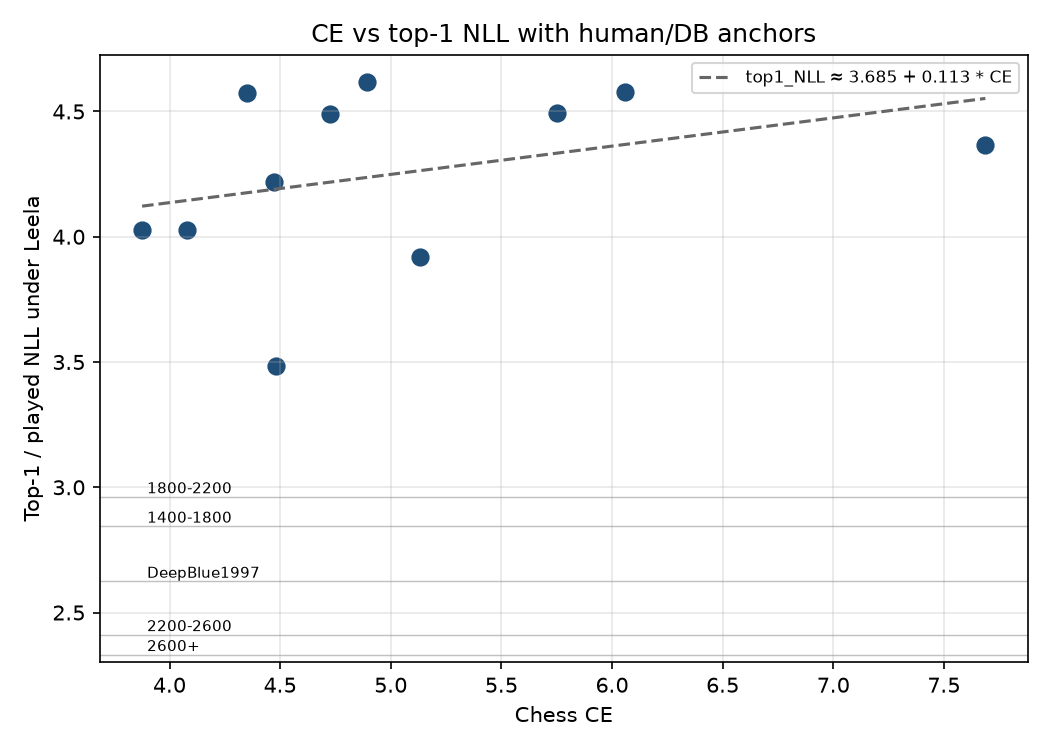
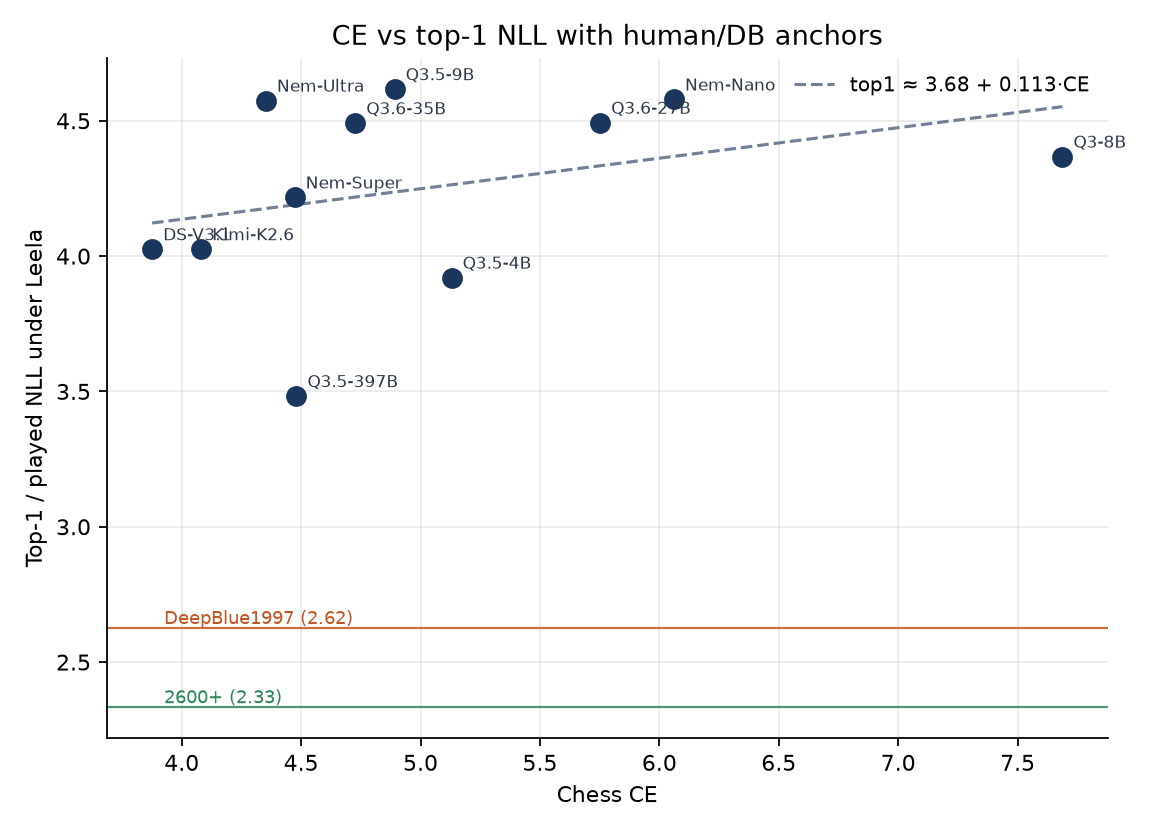
Polish chess write-up: MathJax, table CSS, drop gpt-oss from main curve.

diff --git a/_layouts/default.html b/_layouts/default.html
@@ -8,22 +8,21 @@
   <style>
     body {
       font-family: Georgia, "Times New Roman", Times, serif;
-      line-height: 1.6;
-      max-width: 650px;
+      line-height: 1.65;
+      max-width: 720px;
       margin: 40px auto;
-      padding: 0 10px;
+      padding: 0 16px;
       color: #111;
       background-color: #fff;
     }
     h1, h2, h3 {
-      line-height: 1.2;
+      line-height: 1.25;
+      font-weight: 600;
     }
-    a {
-      color: #0000ee;
-    }
-    a:visited {
-      color: #551a8b;
-    }
+    h2 { margin-top: 2em; }
+    h3 { margin-top: 1.5em; }
+    a { color: #0000ee; }
+    a:visited { color: #551a8b; }
     hr {
       border: 0;
       border-top: 1px solid #ccc;
@@ -34,14 +33,71 @@
       font-style: italic;
       font-size: 0.9em;
     }
+    table {
+      width: 100%;
+      border-collapse: collapse;
+      margin: 1.25em 0;
+      font-size: 0.92em;
+      line-height: 1.4;
+    }
+    thead th {
+      text-align: left;
+      border-bottom: 2px solid #222;
+      padding: 0.45em 0.55em;
+      font-weight: 600;
+      white-space: nowrap;
+    }
+    tbody td {
+      border-bottom: 1px solid #ddd;
+      padding: 0.4em 0.55em;
+      vertical-align: top;
+    }
+    tbody tr:last-child td { border-bottom: 1px solid #bbb; }
+    td:nth-child(n+2), th:nth-child(n+2) {
+      text-align: right;
+      font-variant-numeric: tabular-nums;
+      font-family: "Iosevka", "SF Mono", Menlo, Consolas, monospace;
+      font-size: 0.95em;
+    }
+    /* first col stays prose */
+    td:first-child, th:first-child {
+      text-align: left;
+      font-family: Georgia, "Times New Roman", Times, serif;
+      font-variant-numeric: normal;
+    }
+    img {
+      max-width: 100%;
+      height: auto;
+      display: block;
+      margin: 1.25em auto;
+    }
+    code {
+      font-size: 0.9em;
+      background: #f4f4f4;
+      padding: 0.1em 0.3em;
+      border-radius: 3px;
+    }
+    ul, ol { padding-left: 1.4em; }
+    li { margin: 0.25em 0; }
+    .math-block { overflow-x: auto; }
   </style>
+  <script>
+    window.MathJax = {
+      tex: {
+        inlineMath: [['\\(', '\\)']],
+        displayMath: [['\\[', '\\]']],
+        processEscapes: true
+      }
+    };
+  </script>
+  <script defer src="https://cdn.jsdelivr.net/npm/mathjax@3/es5/tex-chtml.js"></script>
 </head>
 <body>
   <header>
     <h1 style="margin-bottom: 5px;"><a href="{{ '/' | relative_url }}" style="text-decoration: none; color: #111;">{{ site.title }}</a></h1>
     <div style="font-style: italic; margin-bottom: 10px;">{{ site.description }}</div>
     <nav>
-      <a href="https://github.com/{{ site.github_username }}">GitHub</a> / 
+      <a href="https://github.com/{{ site.github_username }}">GitHub</a> /
       <a href="https://www.linkedin.com/in/{{ site.linkedin_username }}">LinkedIn</a>
     </nav>
   </header>

diff --git a/_posts/2025-11-09-correlation-between-pretraining-and-chess-loss.md b/_posts/2025-11-09-correlation-between-pretraining-and-chess-loss.md
@@ -6,17 +6,13 @@ excerpt: "Stress-testing Epoch's Direct Approach: does lower text loss track che
 ---
 Report from the [Apart AI Forecasting Hackathon](https://apartresearch.com/sprints/the-ai-forecasting-hackathon-2025-10-31-to-2025-11-02), updated with a July 2026 Tinker + Leela suite. Code: [emilschmitz/chess-check](https://github.com/emilschmitz/chess-check). Run id `20260710T231834Z`.
 
-# AI Forecasting Hackathon
-
 **Emil Schmitz** · Independent · with Apart Research
-
----
 
 ## Abstract
 
-Epoch AI's Direct Approach treats lower average training loss as a proxy for broader intellectual capability. We stress-test that claim on chess: measure **assistant-only bits-per-byte (BPB)** on post-cutoff prose, then **cross-entropy to Leela Chess Zero** on a fixed grandmaster game, and bridge chess scores to **human Elo bands** via played-move NLL under the same Leela policy.
+Epoch AI's Direct Approach treats lower average training loss as a proxy for broader intellectual capability. We stress-test that claim on chess: measure assistant-only bits-per-byte (BPB) on post-cutoff prose, then cross-entropy to Leela Chess Zero on a fixed grandmaster game, and bridge chess scores to human Elo bands via played-move NLL under the same Leela policy.
 
-On 13 instruct models (Tinker), text BPB and chess CE correlate strongly once two gpt-oss chat/reasoning outliers are excluded (Pearson r ≈ 0.84 on the core 11). Absolute chess CE remains high (~3.9–7.7 nats). Model top-1 Leela NLL sits above Deep Blue's played-move NLL on the same game (~2.62) and above strong Lichess bands (~2.33 for 2600+).
+On 11 instruct models (Tinker; excluding gpt-oss), text BPB and chess CE track each other closely (Pearson \(r \approx 0.84\)). Absolute chess CE remains high (~3.9–7.7 nats). Model top-1 Leela NLL sits above Deep Blue's played-move NLL on the same game (~2.62) and above strong Lichess bands (~2.33 for 2600+).
 
 **Keywords**: Direct Method, Chess, LLM, Leela Chess Zero
 
@@ -26,7 +22,7 @@ On 13 instruct models (Tinker), text BPB and chess CE correlate strongly once tw
 
 Does lower general text loss imply better performance on a narrow, underrepresented domain? Epoch's Direct Approach argues that sufficiently low training loss implies the model can reproduce human-written work across intellectual tasks. That assumes balanced coverage. Chess notation is sparse relative to web prose: a model can look strong on average text while remaining weak at predicting expert moves.
 
-We measure both sides under one protocol: (1) text loss as assistant-only BPB on recent documents, (2) chess loss as H(π_Leela ‖ π_LLM) on Deep Blue–Kasparov 1997 Game 6 (White), (3) a human/engine ladder of −log π_Leela(m_played) by Elo band.
+We measure both sides under one protocol: (1) text loss as assistant-only BPB on recent documents, (2) chess loss as \(H(\pi_{\mathrm{Leela}} \| \pi_{\mathrm{LLM}})\) on Deep Blue–Kasparov 1997 Game 6 (White), (3) a human/engine ladder of \(-\log \pi_{\mathrm{Leela}}(m_{\mathrm{played}})\) by Elo band.
 
 ---
 
@@ -36,7 +32,9 @@ We measure both sides under one protocol: (1) text loss as assistant-only BPB on
 
 Instruct / chat checkpoints only (no base models), scored via [Tinker](https://thinkingmachines.ai/):
 
-Qwen3.5-4B, Qwen3-8B, Qwen3.5-9B, GPT-OSS-20B, Qwen3.6-27B, Nemotron-3-Nano, Qwen3.6-35B-A3B, GPT-OSS-120B, Nemotron-3-Super, Qwen3.5-397B, Nemotron-3-Ultra, DeepSeek-V3.1, Kimi-K2.6.
+Qwen3.5-4B, Qwen3-8B, Qwen3.5-9B, Qwen3.6-27B, Nemotron-3-Nano, Qwen3.6-35B-A3B, Nemotron-3-Super, Qwen3.5-397B, Nemotron-3-Ultra, DeepSeek-V3.1, Kimi-K2.6.
+
+We also ran GPT-OSS-20B and GPT-OSS-120B. Under this chat / Harmony protocol their assistant-only text BPB is pathological (~1.28 and ~2.57), so we treat them as outliers—likely a training or template mismatch rather than a real capability signal—and do not include them in the main table, fits, or plots below.
 
 ### Text loss (BPB)
 
@@ -49,16 +47,16 @@ Qwen3.5-4B, Qwen3-8B, Qwen3.5-9B, GPT-OSS-20B, Qwen3.6-27B, Nemotron-3-Nano, Qwe
 - **Reference:** Leela Chess Zero BT3, `nodes=1` (policy head), CUDA on an A100.
 - **Game:** Deep Blue vs Kasparov, 1997 Game 6 — **White only**, 19 positions (`eval_data/pgn/deep_blue_kasparov_1997_g6.pgn`).
 - **LLM move probs:** full-string SAN with leading space (e.g. `" Nf3"`); product of token conditionals; renormalize over legal moves.
-- **Primary metric:** H(π_Leela ‖ π_LLM).
-- **Bridge metric:** top-1 Leela NLL −log π_Leela(arg max π_LLM).
+- **Primary metric:** \(H(\pi_{\mathrm{Leela}} \| \pi_{\mathrm{LLM}})\).
+- **Bridge metric:** top-1 Leela NLL \(-\log \pi_{\mathrm{Leela}}(\arg\max_m \pi_{\mathrm{LLM}})\).
 
 ### Human / engine calibration
 
-Same Leela policy. For humans (and Deep Blue), score the **played** move: −log π_Leela(m_played), aggregated by Elo band from PGN headers (Lichess sample) plus Deep Blue as an engine anchor on G6.
+Same Leela policy. For humans (and Deep Blue), score the **played** move: \(-\log \pi_{\mathrm{Leela}}(m_{\mathrm{played}})\), aggregated by Elo band from PGN headers (Lichess sample) plus Deep Blue as an engine anchor on G6.
 
 ### Cost
 
-Tinker estimate for this suite: about $0.11 text + $0.65 chess ≈ **$0.76** (cap $50).
+Tinker estimate for this suite (including the excluded gpt-oss runs): about \$0.11 text + \$0.65 chess ≈ **\$0.76** (cap \$50).
 
 ---
 
@@ -66,41 +64,45 @@ Tinker estimate for this suite: about $0.11 text + $0.65 chess ≈ **$0.76** (ca
 
 ### Text BPB vs chess CE
 
-| Model | Params (B) | Text BPB | Chess CE | Top-1 Leela NLL |
-| ----- | ---------- | -------- | -------- | --------------- |
+| Model | Params (B) | Text BPB | Chess CE | Top-1 NLL |
+| ----- | ----------:| --------:| --------:| ---------:|
 | qwen3.5-4b | 4 | 0.701 | 5.130 | 3.921 |
 | qwen3-8b | 8 | 0.768 | 7.687 | 4.368 |
 | qwen3.5-9b | 9 | 0.663 | 4.891 | 4.617 |
-| gpt-oss-20b | 20 | 1.280 | 4.826 | 3.794 |
 | qwen3.6-27b | 27 | 0.616 | 5.752 | 4.493 |
 | nemotron-3-nano | 30 | 0.690 | 6.061 | 4.579 |
 | qwen3.6-35b-a3b | 35 | 0.637 | 4.727 | 4.491 |
-| gpt-oss-120b | 120 | 2.571 | 5.204 | 3.813 |
 | nemotron-3-super | 120 | 0.630 | 4.473 | 4.217 |
 | qwen3.5-397b | 397 | 0.602 | 4.480 | 3.483 |
 | nemotron-3-ultra | 550 | 0.602 | 4.352 | 4.575 |
 | deepseek-v3.1 | 671 (37 act.) | 0.623 | 3.876 | 4.026 |
 | kimi-k2.6 | 1000 (32 act.) | 0.584 | 4.081 | 4.026 |
 
-gpt-oss-20b / 120b show pathological text BPB (~1.28 / ~2.57) under this chat protocol — treated as outliers for correlation fits.
-
 ![Text BPB vs chess CE](/assets/chess-check-20260710/text_bpb_vs_chess_ce.png)
 
-**Core 11 (excl. gpt-oss):** Pearson r(BPB, CE) ≈ 0.84; Spearman ≈ 0.74. Linear fit: CE ≈ −5.94 + 16.99 · BPB. All 13: r ≈ 0.10 (outliers dominate).
+Among these 11 models the pattern is fairly clean: Pearson \(r(\mathrm{BPB}, \mathrm{CE}) \approx 0.84\), Spearman \(\approx 0.74\), with fit
+
+\[
+\mathrm{CE} \approx -5.94 + 16.99 \cdot \mathrm{BPB}.
+\]
 
 Best chess CE: DeepSeek-V3.1 (3.876). Lowest text BPB: Kimi-K2.6 (0.584). Lowest top-1 Leela NLL: Qwen3.5-397B (3.483).
 
 ### Human / Deep Blue ladder
 
 | Band | Mean played NLL | n moves |
-| ---- | --------------- | ------- |
+| ---- | ---------------:| -------:|
 | DeepBlue1997 (G6 White) | 2.625 | 19 |
 | 1400–1800 | 2.845 | 56 |
 | 1800–2200 | 2.962 | 48 |
 | 2200–2600 | 2.412 | 423 |
 | 2600+ | 2.332 | 476 |
 
-Mid bands are small-N and noisy. Strong humans (~2.33) and Deep Blue on this game (~2.62) sit well below every model's top-1 Leela NLL (~3.5–4.6). Empirical CE→top-1 fit on core models: top1 ≈ 3.69 + 0.113 · CE (shallow; top-1 is a coarse bridge).
+Mid bands are small-\(N\) and noisy. Strong humans (~2.33) and Deep Blue on this game (~2.62) sit well below every model's top-1 Leela NLL (~3.5–4.6). Empirical CE→top-1 fit:
+
+\[
+\mathrm{top1} \approx 3.69 + 0.113 \cdot \mathrm{CE}.
+\]
 
 ![CE vs top-1 NLL with anchors](/assets/chess-check-20260710/ce_vs_top1_nll.png)
 
@@ -108,10 +110,10 @@ Mid bands are small-N and noisy. Strong humans (~2.33) and Deep Blue on this gam
 
 ## Discussion
 
-Text BPB and chess CE **do** move together among ordinary instruct models in this suite — consistent with “better models are better at both,” not a clean dissociation. Two caveats cut against a strong Direct Approach reading:
+Excluding gpt-oss, text BPB and chess CE move together — consistent with “better models are better at both,” not a clean dissociation. Two caveats still cut against a strong Direct Approach reading:
 
 1. **Level, not just slope.** Even the best CE (~3.9) is far from matching Leela; top-1 NLL never reaches Deep Blue or 2600+ played-move NLL on this ladder.
-2. **Protocol fragility.** gpt-oss BPB blows up under chat/assistant scoring; without excluding them, the BPB–CE correlation collapses. Chess here is one game (19 White plies) — ranking noise is real.
+2. **Narrow chess sample.** One game (19 White plies) means ranking noise is real; within-family quirks (e.g. Qwen3.6-27B) still appear.
 
 So: lower text loss tracks better chess *relative* ranking in this sample, but absolute chess competence under Leela remains weak, and the human bridge says models are not yet “playing like” strong humans on the played-move NLL metric.
 
@@ -123,6 +125,7 @@ So: lower text loss tracks better chess *relative* ranking in this sample, but a
 - Human ladder is a convenience Lichess sample; mid Elo bands underpowered.
 - Leela BT3 `nodes=1` is a policy snapshot, not search Elo; castling SAN (`O-O`) occasionally missing from parsed VerboseMoveStats → epsilon fallback.
 - Instruct-only curve; no base-model pretrain loss comparison in this run.
+- gpt-oss excluded from the main curve due to Harmony / chat-template BPB pathology.
 
 ---
 
@@ -146,3 +149,4 @@ Artifacts for run `20260710T231834Z`: `results/20260710T231834Z/` (merged CSV, h
 - Stockfish MultiPV as a second reference.
 - Fix O-O SAN mapping; enlarge human Elo samples.
 - Optional base-model curve with raw-continuation BPB for Direct Approach closer to pretrain loss.
+- Revisit gpt-oss with a Harmony-aware scoring protocol (analysis vs final channels).